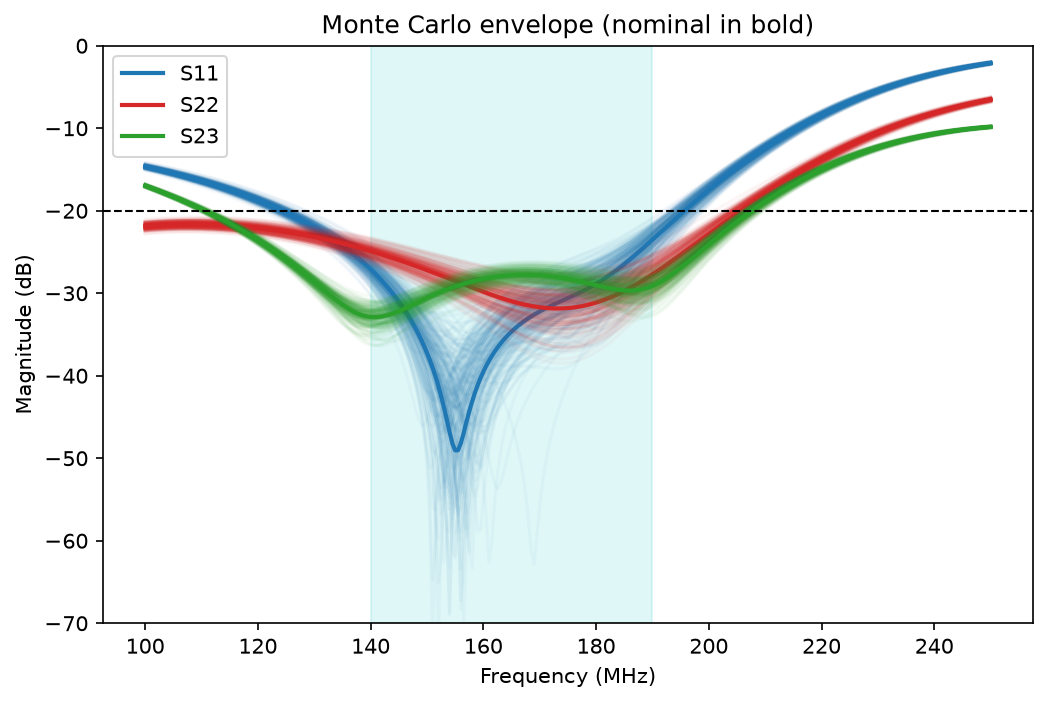
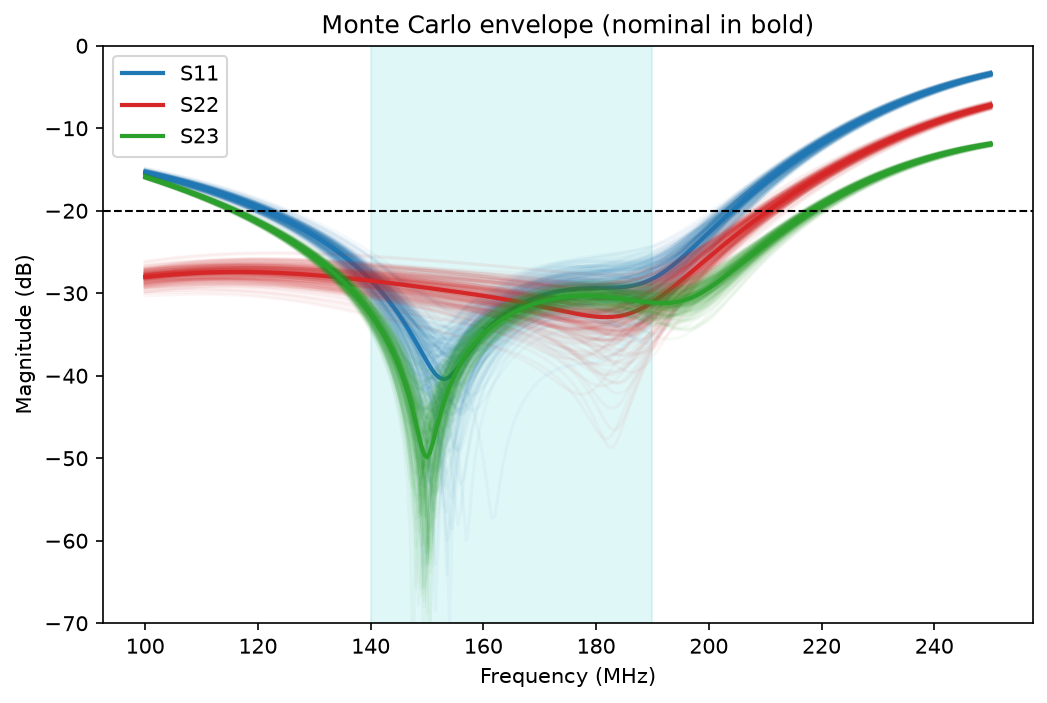
WIP

Changed region(s): [[0.1223, 0.0896, 0.9475, 0.8364]]

diff --git a/rf-scikit/analysis.py b/rf-scikit/analysis.py
@@ -2,50 +2,181 @@ import matplotlib.pyplot as plt
 import numpy as np
 import skrf as rf
 from skrf.circuit import Circuit
+from circuit_definition import COHN_TABLE_N_2_15, Z0_REFERENCE, FREQ_BAND_DEFINITION, solve_s_parameter, IDEAL_COMPONENT_VALUES
 
-from circuit_helper import COHN_TABLE_N_2_15, Z0_REFERENCE, FREQ_BAND_DEFINITION
 
+N_RUNS = 2000
 
-def reference_wilkinson_cohn():
-    # Generates a reference circuit using scikit-rf and returns its scattering matrix
-    freq = rf.Frequency(
+FREQUENCY_RANGE = rf.Frequency(
         start=FREQ_BAND_DEFINITION['start'],
         stop=FREQ_BAND_DEFINITION['end'],
         npoints=FREQ_BAND_DEFINITION['npoints'],
         unit=FREQ_BAND_DEFINITION['unit']
     )
-    beta = freq.w/rf.constants.c
+
+
+def reference_wilkinson_cohn(plot_graph=False):
+    # Generates a reference circuit using scikit-rf and returns its scattering matrix
+    beta = FREQUENCY_RANGE.w/rf.constants.c
 
     # Branches - B section
     RB = COHN_TABLE_N_2_15['rB']*Z0_REFERENCE
-    rb_line = rf.media.DefinedGammaZ0(frequency=freq, z0=RB)
+    rb_line = rf.media.DefinedGammaZ0(frequency=FREQUENCY_RANGE, z0=RB)
     rb_resistor = rb_line.resistor(RB, name='RB')
 
     zb = COHN_TABLE_N_2_15['zB']*Z0_REFERENCE
-    b_line = rf.media.DefinedGammaZ0(frequency=freq, z0=zb)
+    b_line = rf.media.DefinedGammaZ0(frequency=FREQUENCY_RANGE, z0=zb, gamma=0+beta*1j)
     d_b = b_line.theta_2_d(90, deg=True)
     b_branch_i = b_line.line(d_b, unit='m', name='b_branch_i')
     b_branch_ii = b_line.line(d_b, unit='m', name='b_branch_ii')
 
     # Branches -A section
     RA = COHN_TABLE_N_2_15['rA']*Z0_REFERENCE
-    ra_line = rf.media.DefinedGammaZ0(frequency=freq, z0=RA)
+    ra_line = rf.media.DefinedGammaZ0(frequency=FREQUENCY_RANGE, z0=RA)
     ra_resistor = ra_line.resistor(RA, name='RA')
 
     za = COHN_TABLE_N_2_15['zA']*Z0_REFERENCE
-    a_line = rf.media.DefinedGammaZ0(frequency=freq, z0=za)
+    a_line = rf.media.DefinedGammaZ0(frequency=FREQUENCY_RANGE, z0=za, gamma=0+beta*1j)
     d_a = a_line.theta_2_d(90, deg=True)
     a_branch_i = a_line.line(d_a, unit='m', name='a_branch_i')
     a_branch_ii = a_line.line(d_a, unit='m', name='a_branch_ii')
 
     # Ports
-    port1 = Circuit.Port(freq, name='port1', z0=Z0_REFERENCE)
-    port2 = Circuit.Port(freq, name='port2', z0=Z0_REFERENCE)
-    port3 = Circuit.Port(freq, name='port3', z0=Z0_REFERENCE)
+    port1 = Circuit.Port(FREQUENCY_RANGE, name='port1', z0=Z0_REFERENCE)
+    port2 = Circuit.Port(FREQUENCY_RANGE, name='port2', z0=Z0_REFERENCE)
+    port3 = Circuit.Port(FREQUENCY_RANGE, name='port3', z0=Z0_REFERENCE)
 
+    # Connections
+    connections = [
+        [(port1, 0), (b_branch_i, 0), (b_branch_ii, 0)],
+        [(b_branch_i, 1), (rb_resistor, 0), (a_branch_i, 0)],
+        [(b_branch_ii, 1), (rb_resistor, 1), (a_branch_ii, 0)],
+        [(port2, 0), (ra_resistor, 0), (a_branch_i, 1)],
+        [(port3, 0), (ra_resistor, 1), (a_branch_ii, 1)]
+    ]
+
+    ideal_circuit = Circuit(connections)
+    
+    if(plot_graph):
+        ideal_circuit.plot_graph(network_labels=True, edge_labels=True, port_labels=True, port_fontize=2)
+        plt.show()
+
+    scattering_matrix = ideal_circuit.network.s
+    s_db = 20*np.log10(np.abs(scattering_matrix))
+
+    return ideal_circuit, s_db
+
+
+
+def reference_lumped_wilkinson_cohn():
+    # B-values
+    zb = COHN_TABLE_N_2_15['zB']*Z0_REFERENCE
+    LB = IDEAL_COMPONENT_VALUES['LB']
+    CB = IDEAL_COMPONENT_VALUES['CB']
+    RB = COHN_TABLE_N_2_15['rB']*Z0_REFERENCE
+    # B-Branches
+    b_section = rf.media.DefinedGammaZ0(frequency=FREQUENCY_RANGE, z0=zb)
+    B_L1 = b_section.inductor(LB, name='LB_1')
+    B_C1 = b_section.capacitor(CB, name='CB_1')
+    B_L2 = b_section.inductor(LB, name='LB_2')
+    B_C2 = b_section.capacitor(CB, name='CB_2')
+    B_C0 = b_section.capacitor(2*CB, name='CB_0')
+
+    b_res_media = rf.media.DefinedGammaZ0(frequency=FREQUENCY_RANGE, z0=RB)
+    B_R = b_res_media.resistor(RB, name='RB')
+
+    # A-values
+    za = COHN_TABLE_N_2_15['zA']*Z0_REFERENCE
+    LA = IDEAL_COMPONENT_VALUES['LA']
+    CA = IDEAL_COMPONENT_VALUES['CA']
+    RA = COHN_TABLE_N_2_15['rA']*Z0_REFERENCE
+    # A-branches
+    a_section = rf.media.DefinedGammaZ0(frequency=FREQUENCY_RANGE, z0=za)
+    A_C11 = a_section.capacitor(CA, name='CA_11')
+    A_L1 = a_section.inductor(LA, name='LA_1')
+    A_C12 = a_section.capacitor(CA, name='CA_12')
+
+    A_C21 = a_section.capacitor(CA, name='CA_21')
+    A_L2 = a_section.inductor(LA, name='LA_2')
+    A_C22 = a_section.capacitor(CA, name='CA_22')
+
+    a_res_media = rf.media.DefinedGammaZ0(frequency=FREQUENCY_RANGE, z0=RA)
+    A_R = a_res_media.resistor(RA, name='RA')
+
+    # GND
+    gnd = Circuit.Ground(FREQUENCY_RANGE, name='gnd', z0=Z0_REFERENCE)
+
+    # Ports
+    port1 = Circuit.Port(FREQUENCY_RANGE, name='port1', z0=50)
+    port2 = Circuit.Port(FREQUENCY_RANGE, name='port2', z0=50)
+    port3 = Circuit.Port(FREQUENCY_RANGE, name='port3', z0=50)
+
+    connections = [
+        [(port1, 0), (B_C0, 0), (B_L1, 0), (B_L2, 0)],
+        [(B_R, 0), (B_L1, 1), (B_C1, 0), (A_C11, 0), (A_L1, 0)],
+        [(B_R, 1), (B_L2, 1), (B_C2, 0), (A_C21, 0), (A_L2, 0)],
+        [(A_L1, 1), (A_C12, 0), (A_R, 0), (port2, 0)],
+        [(A_L2, 1), (A_C22, 0), (A_R, 1), (port3, 0)],
+        [(gnd, 0), (B_C0, 1), (B_C1, 1), (B_C2, 1), (A_C11, 1), (A_C12, 1), (A_C21,1), (A_C22,1)]
+    ]
+
+    C_two_section = Circuit(connections)
+    scattering_matrix = C_two_section.network.s
+    s_db = 20*np.log10(np.abs(scattering_matrix))
+
+    return C_two_section, s_db
+
+
+
+def plot_s_comparison(s_vector, label_vector):
+    freq_vector = FREQUENCY_RANGE.f * 1e-6
+    fig, axs = plt.subplots(2, 3, figsize=(10,8))
+    for i, s_matrix in enumerate(s_vector):
+        i_s11 = s_matrix[..., 0, 0]
+        axs[0, 0].plot(freq_vector, i_s11, label=label_vector[i])
+        axs[0,0].set_title("S11")
+        i_s22 = s_matrix[..., 1, 1]
+        axs[0, 1].plot(freq_vector, i_s22, label=label_vector[i])
+        axs[0, 1].set_title("S22")
+        i_s33 = s_matrix[..., 2, 2]
+        axs[0, 2].plot(freq_vector, i_s33, label=label_vector[i])
+        axs[0, 2].set_title("S33")
+        i_s21 = s_matrix[..., 1, 0]
+        axs[1, 0].plot(freq_vector, i_s21, label=label_vector[i])
+        axs[1, 0].set_title("S21")
+        i_s31 = s_matrix[..., 2, 0]
+        axs[1, 1].plot(freq_vector, i_s31, label=label_vector[i])
+        axs[1, 1].set_title("S31")
+        i_s32 = s_matrix[..., 2, 1]
+        axs[1, 2].plot(freq_vector, i_s32, label=label_vector[i])
+        axs[1, 2].set_title("S32")
+        print(i_s32.shape)
+
+    for ax in axs.flat:
+        ax.axvspan(145, 186, color='c', alpha=0.2)
+        ax.grid()
+
+    handles, labels = axs[0, 0].get_legend_handles_labels()
+    fig.legend(handles, labels)
+
+    return fig, axs
 
 
 
 if __name__ == '__main__':
     print("Starting analysis on Lumped Wilkinson Power Divider/Combiner")
     print("Generating N=2 Wilkinson-Cohn power divider")
+    ideal_circuit, s_ideal_db = reference_wilkinson_cohn()
+    # ideal_circuit.network.plot_s_db()
+    print("####    Ideal S-metrics:")
+    print(f"S11: {np.max(s_ideal_db[..., 0, 0]):.2f} dB | S21: {np.max(s_ideal_db[..., 1, 0]):.2f} dB | S31: {np.max(s_ideal_db[..., 2, 0]):.2f} dB")
+    print(f"S22: {np.max(s_ideal_db[..., 1, 1]):.2f} db | S12: {np.max(s_ideal_db[..., 0, 1]):.2f} dB | S32: {np.max(s_ideal_db[..., 2, 1]):.2f} dB")
+    print(f"S33: {np.max(s_ideal_db[..., 2, 2]):.2f} db | S13: {np.max(s_ideal_db[..., 0, 2]):.2f} dB | S23: {np.max(s_ideal_db[..., 1, 2]):.2f} dB")
+
+    print("Generating N=2 Wilkinson-Cohn Lumped Power divider")
+    ideal_lumped_circuit, s_lumped_ideal_db = reference_lumped_wilkinson_cohn()
+    theorical_lumped_s, theorical_lumped_y = solve_s_parameter(FREQUENCY_RANGE, IDEAL_COMPONENT_VALUES)
+    theorical_lumped_s_db = 20*np.log10(np.abs(theorical_lumped_s))
+
+    plot_s_comparison([s_ideal_db, s_lumped_ideal_db, theorical_lumped_s_db], ['ideal', 'lumped-ideal', 'theorical'])
+    plt.show()

diff --git a/rf-scikit/circuit_definition.py b/rf-scikit/circuit_definition.py
@@ -1,6 +1,19 @@
-from enum import IntEnum, StrEnum
+from enum import IntEnum
 from typing import NamedTuple
+import numpy as np
+import skrf as rf
 
+Z0_REFERENCE= 50
+
+
+FREQ_BAND_DEFINITION = {
+    'start': 140,
+    'end': 190,
+    'f0': 165,
+    'npoints': 501,
+    'multiplier': 1e6,
+    'unit': 'MHz'
+}
 
 class ComponentType:
     C = "capacitor"
@@ -20,10 +33,7 @@ class CircuitComponent(NamedTuple):
     kind: ComponentType
     node_a: int
     node_b: int | None
-    value: int
-
-
-Z0_REF = 50
+    value_key: str
 
 COHN_TABLE_N_2_15 = { # Reference table for N = 2 and f2/f1 = 1.5
     'zA': 1.1998,
@@ -38,8 +48,73 @@ PORT_NODES = [
     Node.PHI
 ]
 
-def getWilkinsonValues(z0_ref = Z0_REF):
-    realized_values = {}
-    for key in COHN_TABLE_N_2_15.keys():
-        realized_values[key] = COHN_TABLE_N_2_15[key]*z0_ref
-    return realized_values
+ZA_VALUE = COHN_TABLE_N_2_15['zA']*Z0_REFERENCE
+ZB_VALUE = COHN_TABLE_N_2_15['zB']*Z0_REFERENCE
+W0 = 2*np.pi*FREQ_BAND_DEFINITION['f0']*1e6
+
+IDEAL_COMPONENT_VALUES = {
+    'C0': 2/(W0 * ZB_VALUE),
+    'LB': ZB_VALUE/W0,
+    'CB': 1/(W0 * ZB_VALUE),
+    'RB': Z0_REFERENCE * COHN_TABLE_N_2_15['rB'],
+    'CA': 1/(W0* ZA_VALUE),
+    'LA': ZA_VALUE / W0,
+    'RA': Z0_REFERENCE * COHN_TABLE_N_2_15['rA']
+}
+
+
+
+LUMPED_CIRCUIT_DEFINITION = [
+    # Node ALFA
+    CircuitComponent("C0", ComponentType.C, Node.ALFA, None, 'C0'),
+    CircuitComponent("LIB", ComponentType.L, Node.ALFA, Node.BETA, 'LB'),
+    CircuitComponent("LIIB", ComponentType.L, Node.ALFA, Node.THETA, 'LB'),
+    # Node BETA
+    CircuitComponent("CIB", ComponentType.C, Node.BETA, None, 'CB'),
+    CircuitComponent("RB", ComponentType.R, Node.BETA, Node.THETA, 'RB'),
+    CircuitComponent("CIA_1", ComponentType.C, Node.BETA, None, 'CA'),
+    CircuitComponent("LIA", ComponentType.L, Node.BETA, Node.DELTA, 'LA'),
+    # Node DELTA
+    CircuitComponent("CIA_2", ComponentType.C, Node.DELTA, None, 'CA'),
+    CircuitComponent("RA", ComponentType.R, Node.DELTA, Node.PHI, 'RA'),
+    # Node THETA
+    CircuitComponent("CIIB", ComponentType.C, Node.THETA, None, 'CB'),
+    CircuitComponent("CIIA_1", ComponentType.C, Node.THETA, None, 'CA'),
+    CircuitComponent("LIIA", ComponentType.L, Node.THETA, Node.PHI, 'LA'),
+    # Node PHI
+    CircuitComponent("CIIA_2", ComponentType.C, Node.PHI, None, 'CA'),
+]
+
+
+def evaluate_component_admitance(component: CircuitComponent, frequency_obj: rf.Frequency, part_list):
+    component_value = part_list[component.value_key]
+    if(component.kind == ComponentType.C):
+        impedance = 1/(1j*frequency_obj.w*component_value)
+    elif(component.kind == ComponentType.L):
+        impedance = 1j*frequency_obj.w*component_value
+    else:
+        impedance = component_value
+    return 1/impedance
+
+def generate_admitance_matrix(frequency_obj:rf.Frequency, part_list):
+    admitance_matrix = np.zeros((frequency_obj.w.shape[0], len(Node), len(Node)), dtype=complex)
+    for component in LUMPED_CIRCUIT_DEFINITION:
+        y_component = evaluate_component_admitance(component, frequency_obj, part_list)
+        # Add the component to the matrix
+        admitance_matrix[..., component.node_a, component.node_a] += y_component
+        if component.node_b is not None:
+            admitance_matrix[..., component.node_b, component.node_b] += y_component
+            admitance_matrix[..., component.node_a, component.node_b] -= y_component
+            admitance_matrix[..., component.node_b, component.node_a] -= y_component
+    
+    return admitance_matrix
+
+def solve_s_parameter(frequency_obj: rf.Frequency, part_list):
+    Y = generate_admitance_matrix(frequency_obj, part_list)
+    for node in PORT_NODES:
+        Y[..., node, node] += 1.0 / Z0_REFERENCE
+    current_sources = np.zeros((len(Node), len(PORT_NODES)), dtype=complex)
+    for port, node in enumerate(PORT_NODES):
+        current_sources[node, port] = 1.0 /Z0_REFERENCE
+    voltages = np.linalg.solve(Y, current_sources)
+    return 2.0 * voltages[..., PORT_NODES, :] - np.eye(3) , Y

diff --git a/claude/wilkinson_refactored.py b/claude/wilkinson_refactored.py
@@ -104,6 +104,7 @@ class CohnTable:
 @dataclass(frozen=True)
 class SearchSettings:
     optimize_first: bool = True      # False: take E-series neighbours of the Cohn values directly
+    optimizer: str = 'minimax'
     neighbours_per_side: int = 1     # E-series values kept below and above each design value
     shortlist_size: int = 10         # best nominal combinations sent to the Monte Carlo
 
@@ -352,6 +353,52 @@ def optimize_design(start: dict, model: PartModel, spec: Spec, restarts: int = 3
     return design_from(best.x), best.fun
 
 
+def optimize_design_minimax(start: dict, model: PartModel, spec: Spec, restarts: int = 5,
+                            seed: int = 0, max_log_change: float = 1.0):
+    """Gradient-based alternative to optimize_design (epigraph form of the minimax problem).
+
+    Minimise t subject to: S11, S22, S33 and S23 (dB) <= t at every band frequency, and
+    -S21, -S31 <= the insertion-loss limit at every band frequency. All functions are
+    smooth, so SLSQP can be used. Values are varied as exp(x) factors of `start`, with
+    |x| <= max_log_change. Returns (design, t), where t is the worst reflection/isolation in dB."""
+    base = np.array([start[var] for var in VARIABLES])
+
+    def band_magnitudes_db(x):                                   # shape (frequencies, 3, 3)
+        design = dict(zip(VARIABLES, base * np.exp(x)))
+        S = solve_s_parameters(part_values_from_design(design), BAND_FREQS_HZ, model)[0]
+        return 20 * np.log10(np.abs(S) + 1e-12)
+
+    def reflection_isolation_db(x):
+        db = band_magnitudes_db(x)
+        return np.concatenate([db[:, 0, 0], db[:, 1, 1], db[:, 2, 2], db[:, 1, 2]])
+
+    def constraints(z):                                          # every entry must be >= 0
+        x, t = z[:-1], z[-1]
+        db = band_magnitudes_db(x)
+        return np.concatenate([
+            t - db[:, 0, 0], t - db[:, 1, 1], t - db[:, 2, 2], t - db[:, 1, 2],
+            spec.insertion_loss_db + db[:, 1, 0],                # -S21 <= loss limit
+            spec.insertion_loss_db + db[:, 2, 0],                # -S31 <= loss limit
+        ])
+
+    rng = np.random.default_rng(seed)
+    best = None
+    for attempt in range(restarts):
+        x0 = np.zeros(len(base)) if attempt == 0 else rng.normal(0, 0.1, len(base))
+        z0 = np.append(x0, reflection_isolation_db(x0).max())
+        result = minimize(lambda z: z[-1], z0, method="SLSQP",
+                          constraints=[{"type": "ineq", "fun": constraints}],
+                          bounds=[(-max_log_change, max_log_change)] * len(base) + [(-80, 0)],
+                          options=dict(maxiter=300, ftol=1e-7))
+        if result.success and (best is None or result.fun < best.fun):
+            best = result
+
+    if best is None:                                             # no restart converged
+        print("WARNING: minimax optimizer did not converge; falling back to Nelder-Mead")
+        return optimize_design(start, model, spec)
+    return dict(zip(VARIABLES, base * np.exp(best.x[:-1]))), best.fun
+
+
 # ============================================================================
 # 6. STEP 2 AND 3: E-SERIES CANDIDATES AND EXHAUSTIVE NOMINAL SEARCH
 # ============================================================================
@@ -579,8 +626,11 @@ def main() -> None:
 
     # Step 1: continuous optimum (or stay on the Cohn values)
     if SEARCH.optimize_first:
-        centre, cost = optimize_design(start, model, spec)
-        print(f"\nContinuous optimum (cost {cost:.1f} dB):")
+        if SEARCH.optimizer == "minimax":
+            centre, worst_db = optimize_design_minimax(start, model, spec)
+        else:
+            centre, worst_db = optimize_design(start, model, spec)
+        print(f"\nContinuous optimum ({SEARCH.optimizer}, cost {worst_db:.1f} dB):")
     else:
         centre = start
         print("\nContinuous optimization skipped; using the Cohn values")
